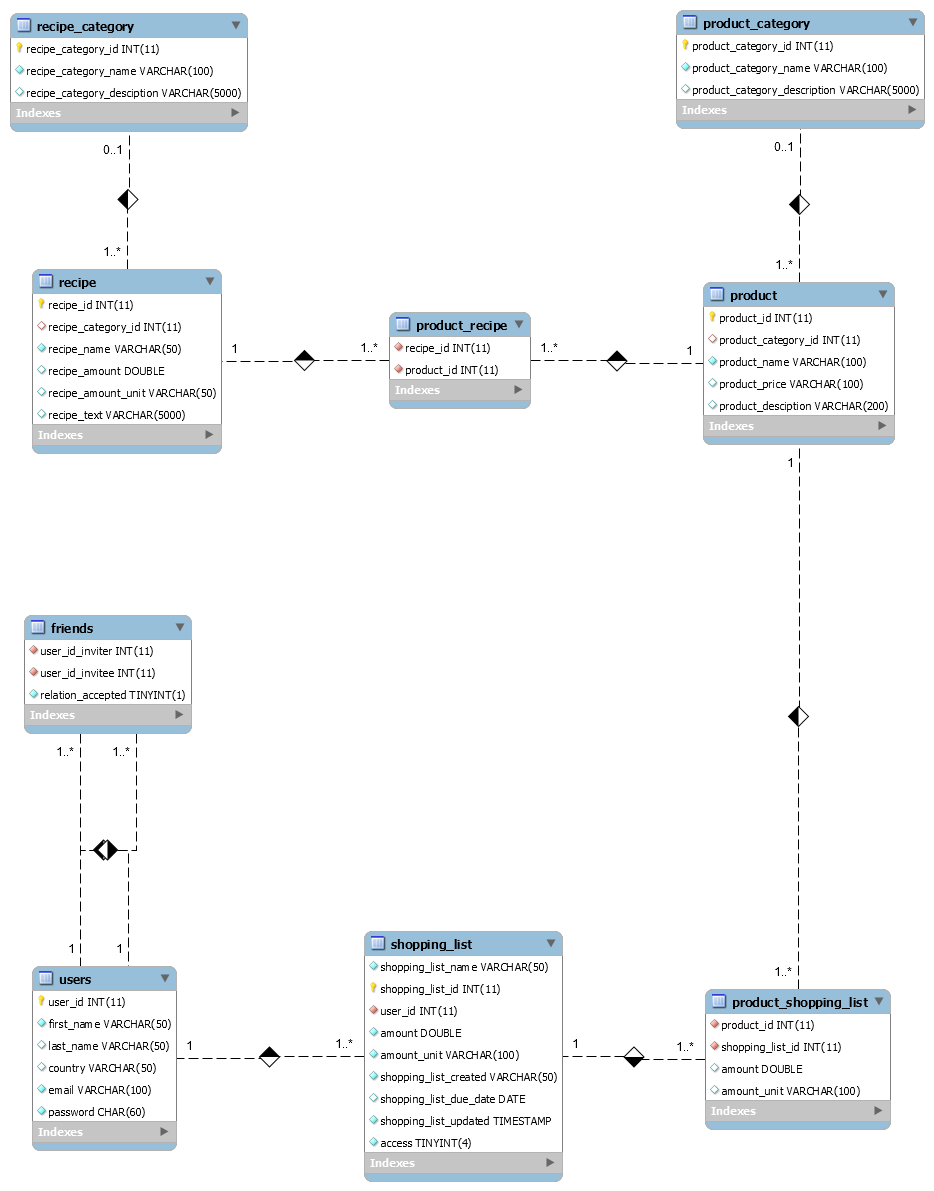
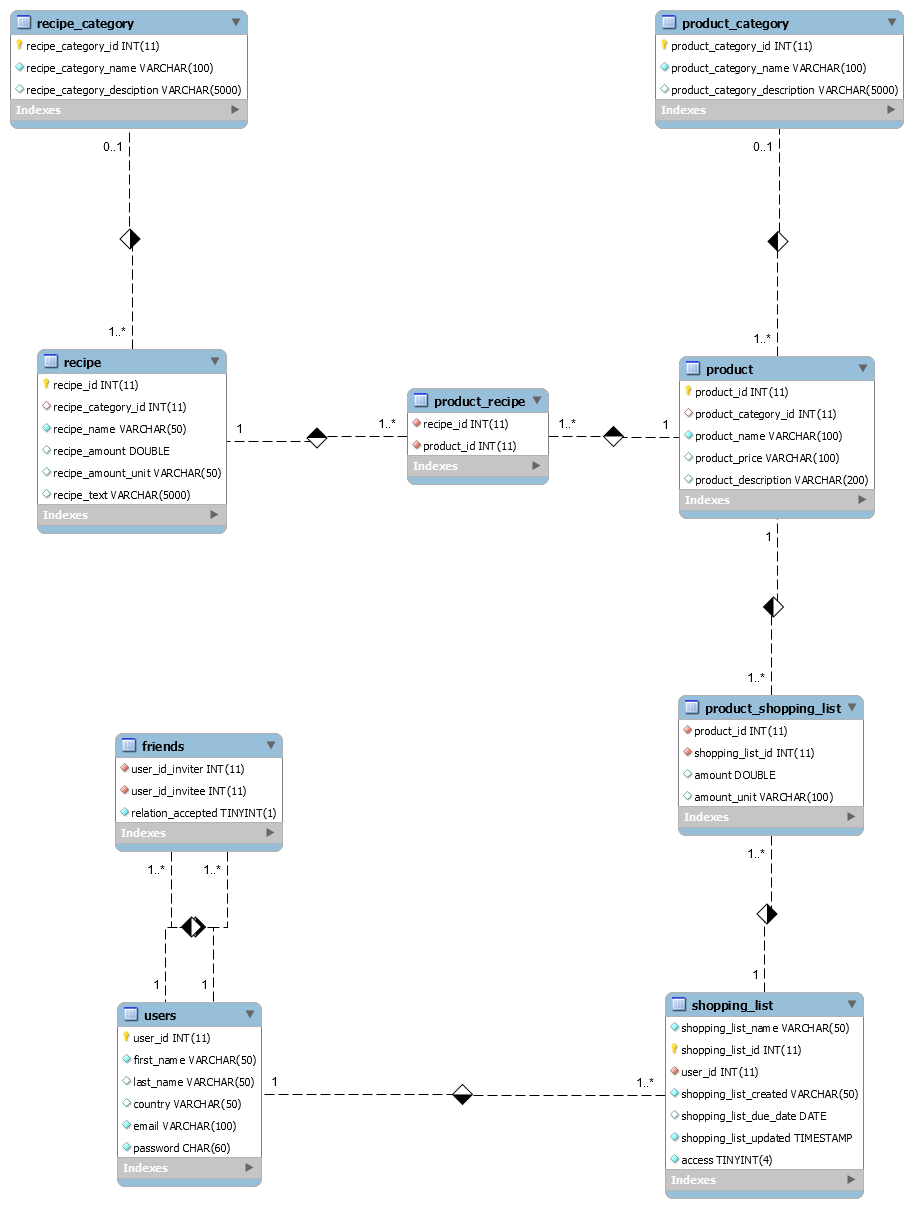
Dal aangepast Product
new ERD. update script

diff --git a/CandleLight/ShoppingApp/Dal/DaProduct.php b/CandleLight/ShoppingApp/Dal/DaProduct.php
@@ -77,7 +77,7 @@ class DaProduct
             $product->setProductCategory($array['product_category_id']);
             $product->setProductName($array['product_name']);
             $product->setProductPrice($array['product_price']);
-            $product->setProductDescription($array['product_desciption']);
+            $product->setProductDescription($array['product_description']);
 
         } catch (\PDOException $e) {
             echo $e->getMessage();
